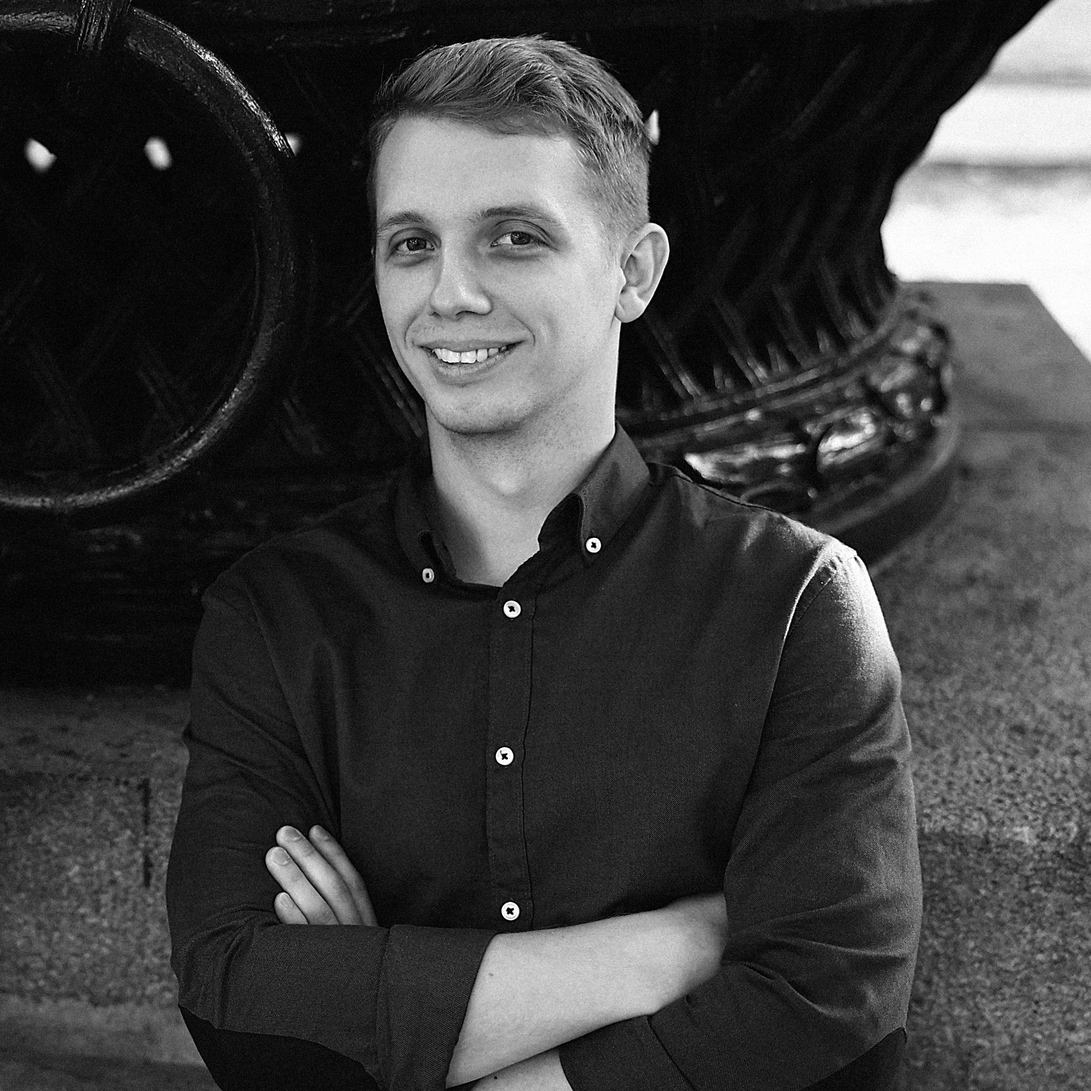
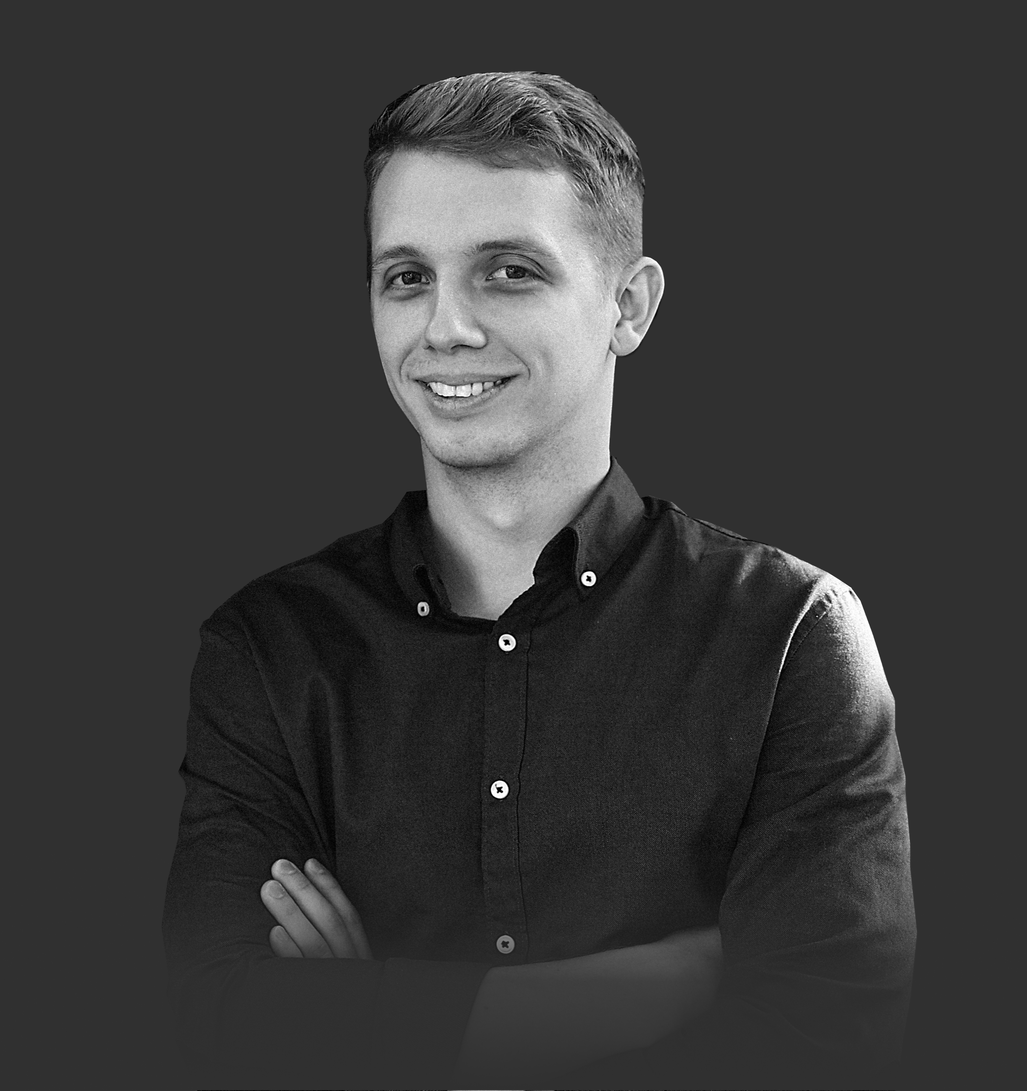
Profile hero text on image, timeline glow, animated dynamic skills

diff --git a/assets/styles.css b/assets/styles.css
@@ -54,9 +54,9 @@ body{
 .cardx-pad{ padding: 14px 14px; }
 
 .cardx-dark{
-  background: rgba(17,24,39,0.92);
+  background: rgba(48,48,48,1);
   border: 1px solid rgba(255,255,255,0.10);
-  color: rgba(255,255,255,0.92);
+  color: rgba(255,255,255,0.92);;
 }
 
 .cardx-dark .section-title,
@@ -143,57 +143,50 @@ body{
 }
 
 /* --- Profile hero card (ref style) --- */
+/* ---- Profile hero with text overlay ---- */
+
+/* ---- Profile hero: text directly on image ---- */
+
 .profile-hero{
   position: relative;
   overflow: hidden;
   border-radius: 22px;
-  border: 1px solid rgba(17,24,39,0.10);
-  background: rgba(255,255,255,0.65);
-  box-shadow: var(--shadow);
 }
 
 .profile-media{
   width: 100%;
-  aspect-ratio: 1 / 1;            /* квадрат */
+  aspect-ratio: 1 / 1;
   background-size: cover;
   background-position: center;
-  transform: scale(1.02);
 }
 
-.profile-overlay{
+/* контейнер текста (без фона) */
+.profile-footer{
   position: absolute;
-  left: 10px;
-  right: 10px;
-  bottom: 10px;
-  padding: 12px 12px;
-  border-radius: 16px;
-  border: 1px solid rgba(255,255,255,0.45);
-  background: rgba(255,255,255,0.22);
-  backdrop-filter: blur(14px);
-  -webkit-backdrop-filter: blur(14px);
+  left: 14px;
+  right: 14px;
+  bottom: 14px;
 }
 
+/* имя */
 .profile-name{
   font-size: 18px;
-  font-weight: 900;
+  font-weight: 800;
+  color: #ffffff;
   letter-spacing: -0.02em;
-  margin: 0;
-  line-height: 1.15;
+  line-height: 1.2;
 }
 
+/* роль / специализация */
 .profile-role{
   font-size: 12px;
-  font-weight: 700;
-  opacity: 0.85;
-  margin-top: 6px;
-  line-height: 1.25;
+  font-weight: 600;
+  color: #ffffff;   /* всё белым */
+  margin-top: 4px;
+  line-height: 1.3;
+  opacity: 0.9;     /* чуть мягче, но всё ещё белое */
 }
 
-.profile-meta{
-  font-size: 12px;
-  opacity: 0.70;
-  margin-top: 6px;
-}
 
 /* optional: make graph area tighter inside card */
 .dash-graph{

diff --git a/app.py b/app.py
@@ -4,13 +4,13 @@ import plotly.graph_objects as go
 
 
 PROFILE = {
-    "name": "Александр",
+    "name": "Крюков Александр",
     "title": "BI / Python / SQL Lead",
-    "location": "Lisbon / Remote",
-    "email": "name@example.com",
-    "telegram": "@yourhandle",
-    "linkedin": "linkedin.com/in/yourprofile",
-    "chat_url": "https://t.me/yourhandle",
+    "location": "Москва / Удаленно",
+    "email": "kryukov.av94@gmail.com",
+    "telegram": "@kryukovav",
+    "linkedin": "linkedin.com/in/kryukovav",
+    "chat_url": "https://t.me/kryukovav",
     "about": "Я делаю аналитику как продукт: проясняю смысл, выстраиваю процессы и помогаю людям принимать решения.",
     "numbers": [
         ("Опыт", "8+ лет"),
@@ -24,44 +24,54 @@ EXPERIENCE = [
     {
         "id": "job3",
         "x": 2025,
-        "company": "Компания A",
-        "role": "Team Lead BI / Analytics",
-        "period": "2023 — 2025",
-        "start": "Jan 2023",
+        "company": "ПАО ТМК",
+        "role": "Руководитель группы отчетности",
+        "period": "2022 — 2025",
+        "start": "Авг 2022",
         "tasks": [
-            "Витрины данных и метрики для руководства/продукта",
-            "Процесс разработки: ревью, стандарты, документация",
-            "Приоритизация и синхронизация BI с бизнесом",
+            "Построил систему управленческой отчётности закупок с нуля",
+            "Наполнил данными из 4 разноструктурных ERP-систем базы MS SQL и SAP BW/4HANA (100M+ строк)",
+            "Спроектировал и поддерживал ETL-процессы на Python с оркестрацией в Apache Airflow, сократив время обновления данных до 2 часов",
+            "Создал более 30 отчетов в Power BI для 1 300 пользователей: дизайн сверстал в Figma, продумал пользовательский путь, для лучшего UX в Power BI использовал кастомные визуализации HTML5, SVG-графики, закладки и drill-through детализации",
+            "Создал Python-алгоритмы, использующие статистическую базу, для автоматической проверки планов закупок, которые приносят до 150 млн ₽ сокращения затрат в месяц",
+            "Оптимизировал сложные SQL-запросы и процедуры для БД, повысив их производительность на 70%",
+            "Руководил командой из 3 аналитиков: планирование задач, code review по SQL/Python, развитие компетенций"
         ],
         "wins": ["Время отчётности −40%", "Меньше ручного труда за счёт автоматизации"],
         "stack": ["Python", "SQL", "MSSQL", "Superset"],
-        "skills": {"SQL": 1, "Excel": 5, "Power BI": 3}
+        "skills": {"Python":9, "SQL": 8, "Power BI": 8, "Excel": 7}
 
     },
     {
         "id": "job2",
-        "x": 2023,
-        "company": "Компания B",
-        "role": "Senior Analyst",
-        "period": "2020 — 2023",
-        "start": "Mar 2020",
-        "tasks": ["Отчётность и автоматизация расчётов (SQL)", "Сбор требований, обучение пользователей"],
+        "x": 2022,
+        "company": "АО СУЭК",
+        "role": "Главный специалист -> Начальник отдела",
+        "period": "2019 — 2022",
+        "start": "Апр 2019",
+        "tasks": ["Формировал консолидированную отчетность базе SAP ERP и Oracle. Переносил excel отчеты на Power Query и Power BI",
+                   "Сократил время обновления отчетности с 5 дней до 1 часа, автоматизировав ручные операции в python;",
+                    "Обеспечивал контроль исполнения ключевых показателей эффективности (KPI) топ-менеджмента закупки, включая оборачиваемость запасов, сроки и объёмы поставок",
+                    "Руководил аналитической группой (3 специалиста): распределение задач, контроль сроков и качества выполнения отчетов"
+        ],
         "wins": ["15+ отчётов автоматизировано", "Ошибок меньше через QC/проверки"],
         "stack": ["SQL", "Power BI", "Python"],
-        "skills": {"SQL": 9, "Excel": 5, "Python": 3, "Power BI": 5}
+        "skills": {"Excel": 10, "SQL": 5, "Python": 3, "Power BI": 3}
 
     },
     {
         "id": "job1",
-        "x": 2020,
-        "company": "Компания C",
-        "role": "Analyst",
-        "period": "2017 — 2020",
-        "start": "Jun 2017",
-        "tasks": ["Отчёты и разборы для бизнеса", "Поиск причин отклонений, поддержка данных"],
+        "x": 2018,
+        "company": "ПАО Газпром нефть",
+        "role": "Специалист",
+        "period": "2018 — 2019",
+        "start": "Дек 2018",
+        "tasks": ["Выполнил более 5 тыс. заявок на аккредитацию поставщиков в SRM-системе", 
+                  "ПФормировал аналитические справки в excel на базе выгрузок из SAP ERP (до 20 еженедельно)",
+                  "Проверил более 1,5 тыс. результатов конкурсных процедур на предмет обоснованности выбора поставщиков и предложений"],
         "wins": ["Ускорил подготовку отчётов за счёт шаблонов"],
         "stack": ["Excel", "SQL"],
-        "skills": {"SQL": 9, "Python": 7, "Power BI": 8}
+        "skills": {"Excel": 4}
 
     },
 ]
@@ -282,11 +292,28 @@ def ul(items):
 
 # ---- Left: Profile hero (ref style) ----
 def profile_hero():
-    bg_url = "url('/assets/avatar.jpg')"
+    bg_url = "url('/assets/avatar.jpg')"  # твое фото
+
     return html.Div(
         className="profile-hero cardx",
         children=[
-            html.Div(style={"backgroundImage": bg_url}, className="profile-media"),
+            # само фото
+            html.Div(
+                className="profile-media",
+                style={"backgroundImage": bg_url},
+            ),
+
+            # нижняя плашка с текстом
+            html.Div(
+                className="profile-footer",
+                children=[
+                    html.Div("Крюков Александр", className="profile-name"),
+                    html.Div(
+                        "BI / Python / SQL • Analytics Lead",
+                        className="profile-role",
+                    ),
+                ],
+            ),
         ],
     )
 
